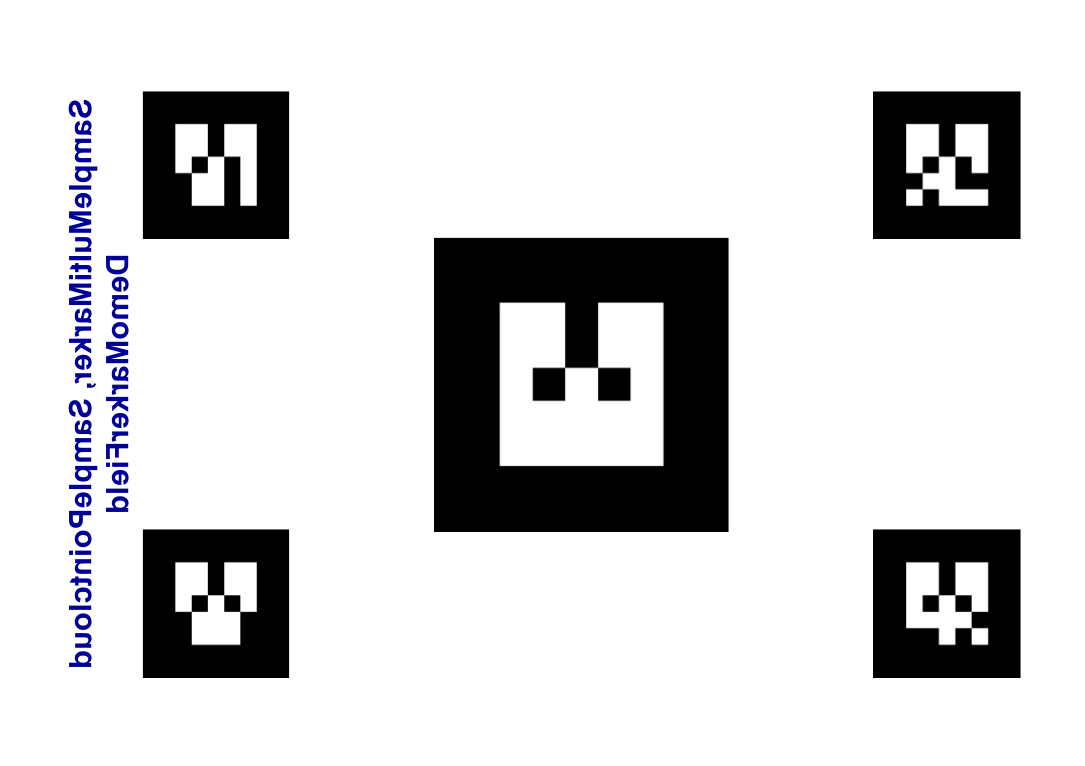
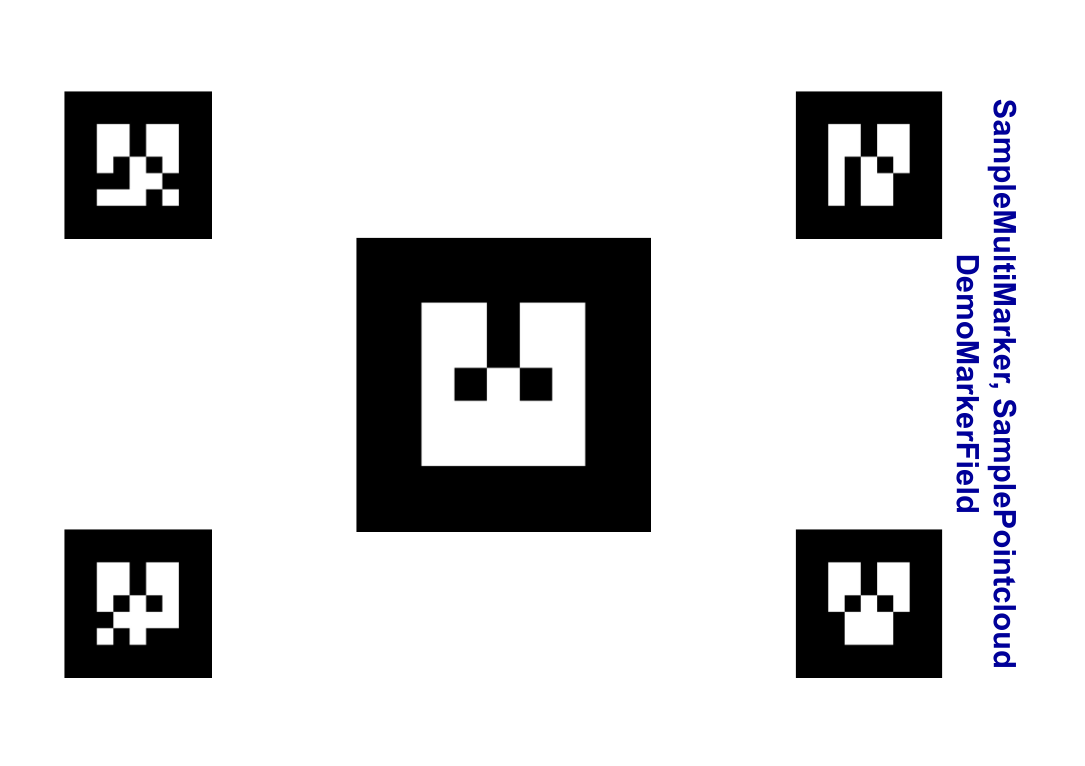
AR done. Need to calibrate perception.

Changed region(s): [[0.3041, 0.3003, 0.6691, 0.7206], [0.73, 0.1201, 0.9429, 0.9008], [0.0608, 0.1201, 0.2737, 0.9008]]

diff --git a/AR-Unity/Assets/background.cs b/AR-Unity/Assets/background.cs
@@ -7,23 +7,22 @@ using System.IO;
 
 public class background : MonoBehaviour {
 	
-	//The texture that holds the video captured by the webcam
+	// The texture that holds the video captured by the webcam
 	private WebCamTexture webCamTexture;
 	
 	// The pixels data in raw format
 	private Color32[] data;
 
-	//The selected webcam
+	// The selected webcam
 	public int selectedCam = 0;
 
-    public float t;
+    // Transformation matrix
+    public static double[] transMat = new double[16];
+
 	void Start()
 	{
-		//An integer that stores the number of connected webcams
-	    //int numOfCams = WebCamTexture.devices.Length;
 		print (selectedCam);
 		print (WebCamTexture.devices[selectedCam].name);
-		//renderer.material.color = new Color (255, 255, 255);
 
 		//Initialize the webCamTexture
 		webCamTexture = new WebCamTexture();
@@ -33,97 +32,33 @@ public class background : MonoBehaviour {
 		
 		//Start streaming the images captured by the webcam into the texture
         webCamTexture.Play();
-        //data = new Color32[webCamTexture.width * webCamTexture.height];
-		
-        //webCamTexture.GetPixels32 (data);
-        //// Need to convert Color32[] to char*
-        //char[] imageData = new char[webCamTexture.width * webCamTexture.height * 3];
 
-        //for (int i = 0; i < webCamTexture.width * webCamTexture.height; ++i) {
-        //    imageData[i*3] = (char)data[i].r;
-        //    imageData[i*3+1] = (char)data[i].g;
-        //    imageData[i*3+2] = (char)data[i].b;
-        //}
-
-        //for (int i = 0; i < webCamTexture.width * webCamTexture.height; ++i)
-        //{
-        //    Debug.Log("r=" + imageData[i * 3] + " g=" + imageData[i * 3 + 1] +" b" + imageData[i * 3 + 2]);
-        //}
-
-
-        /*IntPtr c = Marshal.UnsafeAddrOfPinnedArrayElement(imageData, 0);
-        ALVARBridge.alvar_init(c, webCamTexture.width, webCamTexture.height);*/
-        /*IntPtr ptr = new IntPtr();
-        Marshal.StructureToPtr(imageData, ptr, true);*/
         ALVARBridge.alvar_init(webCamTexture.width, webCamTexture.height);
-        //ALVARBridge.alvar_init(imageData, webCamTexture.width, webCamTexture.height);
 
-
-        t = Time.time;
+        data = new Color32[webCamTexture.width * webCamTexture.height];
 	}
 	
 	// Update is called once per frame
 	void Update () {
+        webCamTexture.GetPixels32 (data);
+        int[] imageData = new int[data.Length * 3];
 
-        //Debug.Log("data=" + data.Length);
-        //Debug.Log("cam=" + webCamTexture.width * webCamTexture.height);
-        //Debug.Log("width=" + webCamTexture.width + " height=" + webCamTexture.height);
-
-
-        /*Debug.Log("l=" + imageData.Length);
-        Debug.Log("0=" + imageData[0] + " " + imageData[1] + " "+ imageData[2]);
-        Debug.Log("$=" + imageData[imageData.Length - 3] + " " + imageData[imageData.Length - 2] + " " + imageData[imageData.Length - 1]);*/
-
-
-        //for (int i = 0; i < imageData.Length; ++i)
-        //{
-        //    //Debug.Log(imageData[i]);
-        //    Debug.Log("r=" + imageData[i * 3] + " g=" + imageData[i * 3 + 1] + " b" + imageData[i * 3 + 2]);
-        //}
-		
-        double[] transMat = new double[16];
-        ///*IntPtr c = Marshal.UnsafeAddrOfPinnedArrayElement(imageData, 0);
-        //ALVARBridge.alvar_process(c, transMat);*/
-        if (Time.time > t + 2) {
-            t = Time.time;
-
-            data = new Color32[webCamTexture.width * webCamTexture.height];
-            webCamTexture.GetPixels32 (data);
-            int[] imageData = new int[data.Length * 3];
-
-            for (int i = 0; i < data.Length; ++i) {
-                imageData[i*3] = (int)data[i].b;
-                imageData[i*3+1] = (int)data[i].g;
-                imageData[i*3+2] = (int)data[i].r;
-            }
-            
-
-            ALVARBridge.alvar_process(imageData, transMat);
-
-            Debug.Log("matrix={"
-            + transMat[0].ToString("F2") + " " + transMat[1].ToString("F2") + " " + transMat[2].ToString("F2") + " " + transMat[3].ToString("F2") + " "
-            + transMat[4].ToString("F2") + " " + transMat[5].ToString("F2") + " " + transMat[6].ToString("F2") + " " + transMat[7].ToString("F2") + " "
-            + transMat[8].ToString("F2") + " " + transMat[9].ToString("F2") + " " + transMat[10].ToString("F2") + " " + transMat[11].ToString("F2") + " "
-            + transMat[12].ToString("F2") + " " + transMat[13].ToString("F2") + " " + transMat[14].ToString("F2") + " " + transMat[15].ToString("F2") + "}");
+        for (int i = 0; i < data.Length; ++i) {
+            imageData[i*3] = (int)data[i].r;
+            imageData[i*3+1] = (int)data[i].g;
+            imageData[i*3+2] = (int)data[i].b;
         }
-		
-        //int nb = ALVARBridge.alvar_number_of_detected_markers();
 
-        //if (nb > 0)
-        //{
-        //    /*Debug.Log(nb + " markers found with matrix={"
-        //        + transMat[0].ToString("F2") + " " + transMat[1].ToString("F2") + " " + transMat[2].ToString("F2") + " " + transMat[3].ToString("F2") + " "
-        //        + transMat[4].ToString("F2") + " " + transMat[5].ToString("F2") + " " + transMat[6].ToString("F2") + " " + transMat[7].ToString("F2") + " "
-        //        + transMat[8].ToString("F2") + " " + transMat[9].ToString("F2") + " " + transMat[10].ToString("F2") + " " + transMat[11].ToString("F2") + " "
-        //        + transMat[12].ToString("F2") + " " + transMat[13].ToString("F2") + " " + transMat[14].ToString("F2") + " " + transMat[15].ToString("F2") + "}");*/
-        //}
-        //else
-        //{
-        //    //Debug.Log("No markers found");
-        //}
+        ALVARBridge.alvar_process(imageData, transMat);
+
+        Debug.Log("matrix={"
+        + transMat[0].ToString("F2") + " " + transMat[1].ToString("F2") + " " + transMat[2].ToString("F2") + " " + transMat[3].ToString("F2") + " "
+        + transMat[4].ToString("F2") + " " + transMat[5].ToString("F2") + " " + transMat[6].ToString("F2") + " " + transMat[7].ToString("F2") + " "
+        + transMat[8].ToString("F2") + " " + transMat[9].ToString("F2") + " " + transMat[10].ToString("F2") + " " + transMat[11].ToString("F2") + " "
+        + transMat[12].ToString("F2") + " " + transMat[13].ToString("F2") + " " + transMat[14].ToString("F2") + " " + transMat[15].ToString("F2") + "}");
 	}
 	
 	void Close() {
-		//ALVARBridge.alvar_close();	
+		ALVARBridge.alvar_close();	
 	}
 }

diff --git a/ALVARBridge/ALVARBridge.cpp b/ALVARBridge/ALVARBridge.cpp
@@ -39,95 +39,58 @@ char *tmp;
 
 extern "C"
 {
-	__declspec(dllexport) void alvar_init(int width, int height/*char imageData[], int width, int height*/)
+	__declspec(dllexport) void alvar_init(int width, int height)
 	{
-		/*image->nSize = sizeof(IplImage);
-		image->ID = 0;
-		image->nChannels = 3;
-		image->alphaChannel = 0;
-		image->depth = IPL_DEPTH_8U;
+		videoXRes = width;
+		videoYRes = height;
 
-		memcpy(&image->colorModel, "RGB", sizeof(char) * 4);
-		memcpy(&image->channelSeq, "RGB", sizeof(char) * 4);
-		image->dataOrder = 0;
+		// Calibration. See manual and ALVAR internal samples how to calibrate your camera
+		// Calibration will make the marker detecting and marker pose calculation more accurate.
+		if (! camera.SetCalib("Calibrations/default_calib.xml", videoXRes, videoYRes)) {
+			camera.SetRes(videoXRes, videoYRes);
+		}
 
-		image->origin = 0;
-		image->align = 4;
-		image->width = width;
-		image->height = height;
-
-		image->roi = NULL;
-		image->maskROI = NULL;
-		image->imageId = NULL;
-		image->tileInfo = NULL;
-		image->widthStep = width * 3;
-		image->imageSize = height * image->widthStep;
-
-		image->imageData = imageData;
-		image->imageDataOrigin = NULL;*/
-
-		//capture = cvCaptureFromCAM(CV_CAP_ANY);
-
-		// Capture is central feature, so if we fail, we get out of here.
-		//if (capture) {
-		//if (image) {
-			// Let's capture one frame to get video resolution
-			/*image = cvQueryFrame(capture);
-
-			videoXRes = image->width;
-			videoYRes = image->height;*/
-			videoXRes = width;
-			videoYRes = height;
-
-			// Calibration. See manual and ALVAR internal samples how to calibrate your camera
-			// Calibration will make the marker detecting and marker pose calculation more accurate.
-			if (! camera.SetCalib("Calibrations/default_calib.xml", videoXRes, videoYRes)) {
-				camera.SetRes(videoXRes, videoYRes);
-			}
-
-			// Get the video fov for the tracking system
-			/*video_X_FOV = camera.GetFovX();
-			video_Y_FOV = camera.GetFovY();*/
+		// Get the video fov for the tracking system
+		/*video_X_FOV = camera.GetFovX();
+		video_Y_FOV = camera.GetFovY();*/
 		
-			// Set projection matrix as ALVAR recommends (based on the camera calibration)
-			double p[16];
-			camera.GetOpenglProjectionMatrix(p,videoXRes,videoYRes);
+		// Set projection matrix as ALVAR recommends (based on the camera calibration)
+		double p[16];
+		camera.GetOpenglProjectionMatrix(p,videoXRes,videoYRes);
 
-			//Initialize the multimarker system
-			for(int i = 0; i < MARKER_COUNT; ++i)
-				markerIdVector.push_back(i);
+		//Initialize the multimarker system
+		for(int i = 0; i < MARKER_COUNT; ++i)
+			markerIdVector.push_back(i);
 
-			// We make the initialization for MultiMarkerBundle using a fixed marker field (can be printed from MultiMarker.ppt)
-			markerDetector.SetMarkerSize(CORNER_MARKER_SIZE);
-			markerDetector.SetMarkerSizeForId(0, CENTRE_MARKER_SIZE);
+		// We make the initialization for MultiMarkerBundle using a fixed marker field (can be printed from MultiMarker.ppt)
+		markerDetector.SetMarkerSize(CORNER_MARKER_SIZE);
+		markerDetector.SetMarkerSizeForId(0, CENTRE_MARKER_SIZE);
 		
-			multiMarker = new alvar::MultiMarker(markerIdVector);
+		multiMarker = new alvar::MultiMarker(markerIdVector);
 		
-			alvar::Pose pose;
-			pose.Reset();
-			multiMarker->PointCloudAdd(0, CENTRE_MARKER_SIZE, pose);
+		alvar::Pose pose;
+		pose.Reset();
+		multiMarker->PointCloudAdd(0, CENTRE_MARKER_SIZE, pose);
 		
-			pose.SetTranslation(-10, 6, 0);
-			multiMarker->PointCloudAdd(1, CORNER_MARKER_SIZE, pose);
+		pose.SetTranslation(-10, 6, 0);
+		multiMarker->PointCloudAdd(1, CORNER_MARKER_SIZE, pose);
 		
-			pose.SetTranslation(10, 6, 0);
-			multiMarker->PointCloudAdd(2, CORNER_MARKER_SIZE, pose);
+		pose.SetTranslation(10, 6, 0);
+		multiMarker->PointCloudAdd(2, CORNER_MARKER_SIZE, pose);
 		
-			pose.SetTranslation(-10, -6, 0);
-			multiMarker->PointCloudAdd(3, CORNER_MARKER_SIZE, pose);
+		pose.SetTranslation(-10, -6, 0);
+		multiMarker->PointCloudAdd(3, CORNER_MARKER_SIZE, pose);
 		
-			pose.SetTranslation(+10, -6, 0);
-			multiMarker->PointCloudAdd(4, CORNER_MARKER_SIZE, pose);
+		pose.SetTranslation(+10, -6, 0);
+		multiMarker->PointCloudAdd(4, CORNER_MARKER_SIZE, pose);
 
-			trackerStat.Reset();
-		//}
+		trackerStat.Reset();
 	}
 
 	__declspec(dllexport) void alvar_process(int* imageData, double* transMatrix)
 	{
 		alvar::Pose pose;
-		// Capture the image
-		//image = cvQueryFrame(capture);
+
 		image = new IplImage();
 		image->nSize = sizeof(IplImage);
 		image->ID = 0;
@@ -151,38 +114,19 @@ extern "C"
 		image->widthStep = videoXRes * 3;
 		image->imageSize = videoYRes * image->widthStep;
 
-		// WARNING: CHANGE THIS VALUE
-		//char tmp[921600];
 		int n = videoXRes * videoYRes * 3;
 		tmp = new char[n];
-		for (int i = 0; i < n; ++i) {
-			tmp[i] = (char)imageData[i];
+
+		int w = videoXRes*3;
+		int h = videoYRes;
+		for (int i = 0; i < w; ++i) {
+			for (int j = 0; j < h; ++j) {
+				tmp[i + j * w] = (char)imageData[i + (h - j - 1) * w];
+			}
 		}
-
-		std::ofstream file("output.txt", std::ofstream::app);
-
-		//file << sizeof(*imageData) << " ";
-
-		/*for (int i = 0; i < 100; ++i)
-			file << imageData[i] << " ";*/
-
-		//for (int i = 0; i < n; ++i) {
-		//	file << imageData[i] << " ";
-		//	if (i % videoXRes == 0)
-		//		file << "\n";
-		//}
-
-		file.close();
 
 		image->imageData = tmp;
 		image->imageDataOrigin = NULL;
-
-		// Check if we need to change image origin and is so, flip the image.
-		bool flip_image = (image->origin?true:false);
-		if (flip_image) {
-			cvFlip(image);
-			image->origin = !image->origin;
-		}
 
 		// Detect all the markers from the frame
 		markerDetector.Detect(image, &camera, false, false);
@@ -199,11 +143,8 @@ extern "C"
 			trackerStat.Reset();
 		}
 	
-		// In case we flipped the image, it's time to flip it back 
-		if (flip_image) {
-			cvFlip(image);
-			image->origin = !image->origin;
-		}
+		delete tmp;
+		delete image;
 	}
 
 	// This function returns the number of detected markers.

diff --git a/AR-Unity/Assets/Marker.cs b/AR-Unity/Assets/Marker.cs
@@ -3,6 +3,8 @@ using System.Collections;
 
 public class Marker : MonoBehaviour {
 
+    private Matrix4x4 mat = new Matrix4x4();
+
 	// Use this for initialization
 	void Start () {
         //ALVARBridge.alvar_init();
@@ -11,7 +13,10 @@ public class Marker : MonoBehaviour {
     public static void TransformFromMatrix(Matrix4x4 matrix, Transform trans)
     {
         trans.rotation = QuaternionFromMatrix(matrix);
-        trans.position = matrix.GetColumn(3); // uses implicit conversion from Vector4 to Vector3
+        //trans.position = matrix.GetColumn(3); // uses implicit conversion from Vector4 to Vector3
+        Vector3 tmp = matrix.GetColumn(3);
+        tmp.x = -tmp.x;
+        trans.position = tmp;
     }
 
     public static Quaternion QuaternionFromMatrix(Matrix4x4 m)
@@ -25,11 +30,28 @@ public class Marker : MonoBehaviour {
         q.x *= Mathf.Sign(q.x * (m[2, 1] - m[1, 2]));
         q.y *= Mathf.Sign(q.y * (m[0, 2] - m[2, 0]));
         q.z *= Mathf.Sign(q.z * (m[1, 0] - m[0, 1]));
+
+        q.y = -q.y;
+        q.z = -q.z;
+
         return q;
     }
 
 
 	// Update is called once per frame
+    void Update()
+    {
+        for (int i = 0; i < 16; ++i)
+        {
+            mat[i] = (float)background.transMat[i];
+        }
+        if (!mat.Equals(Matrix4x4.zero))
+        {
+            TransformFromMatrix(mat, this.transform);
+            //Debug.Log(this.transform.position.x + " " + this.transform.position.y + " " + this.transform.position.z);
+        }
+    }
+    /*
 	void Update () {
         //int nb = ALVARBridge.alvar_number_of_detected_markers();
         //if (nb > 0)
@@ -54,5 +76,5 @@ public class Marker : MonoBehaviour {
         //        Debug.Log(this.transform.position.x + " " + this.transform.position.y + " " + this.transform.position.z);
         //    }
         //}
-	}
+	}*/
 }
